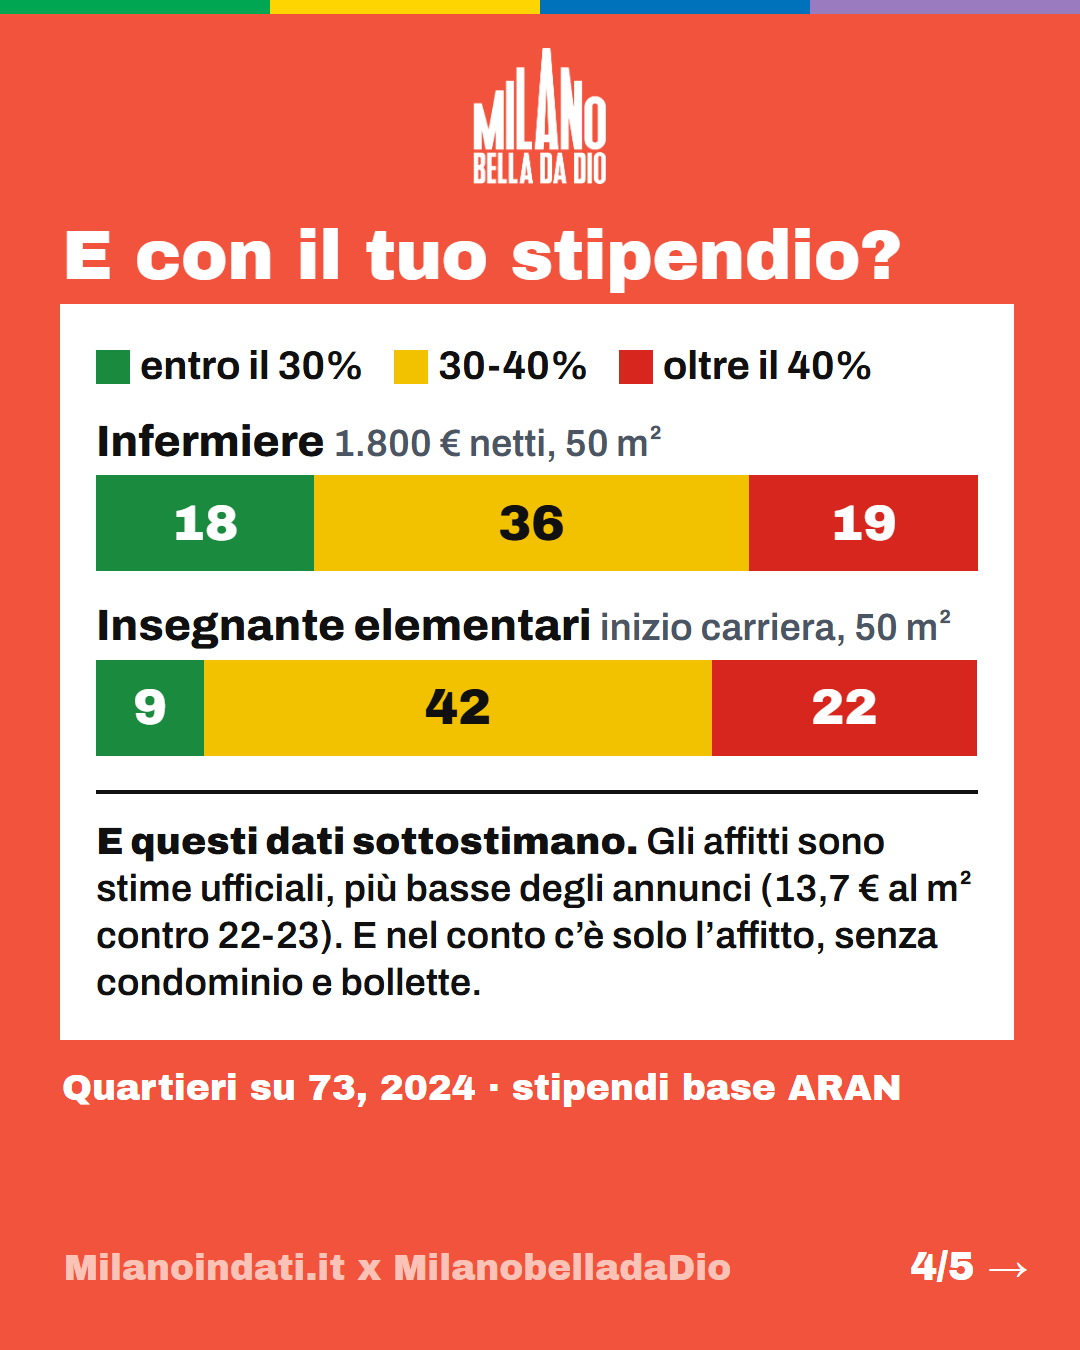
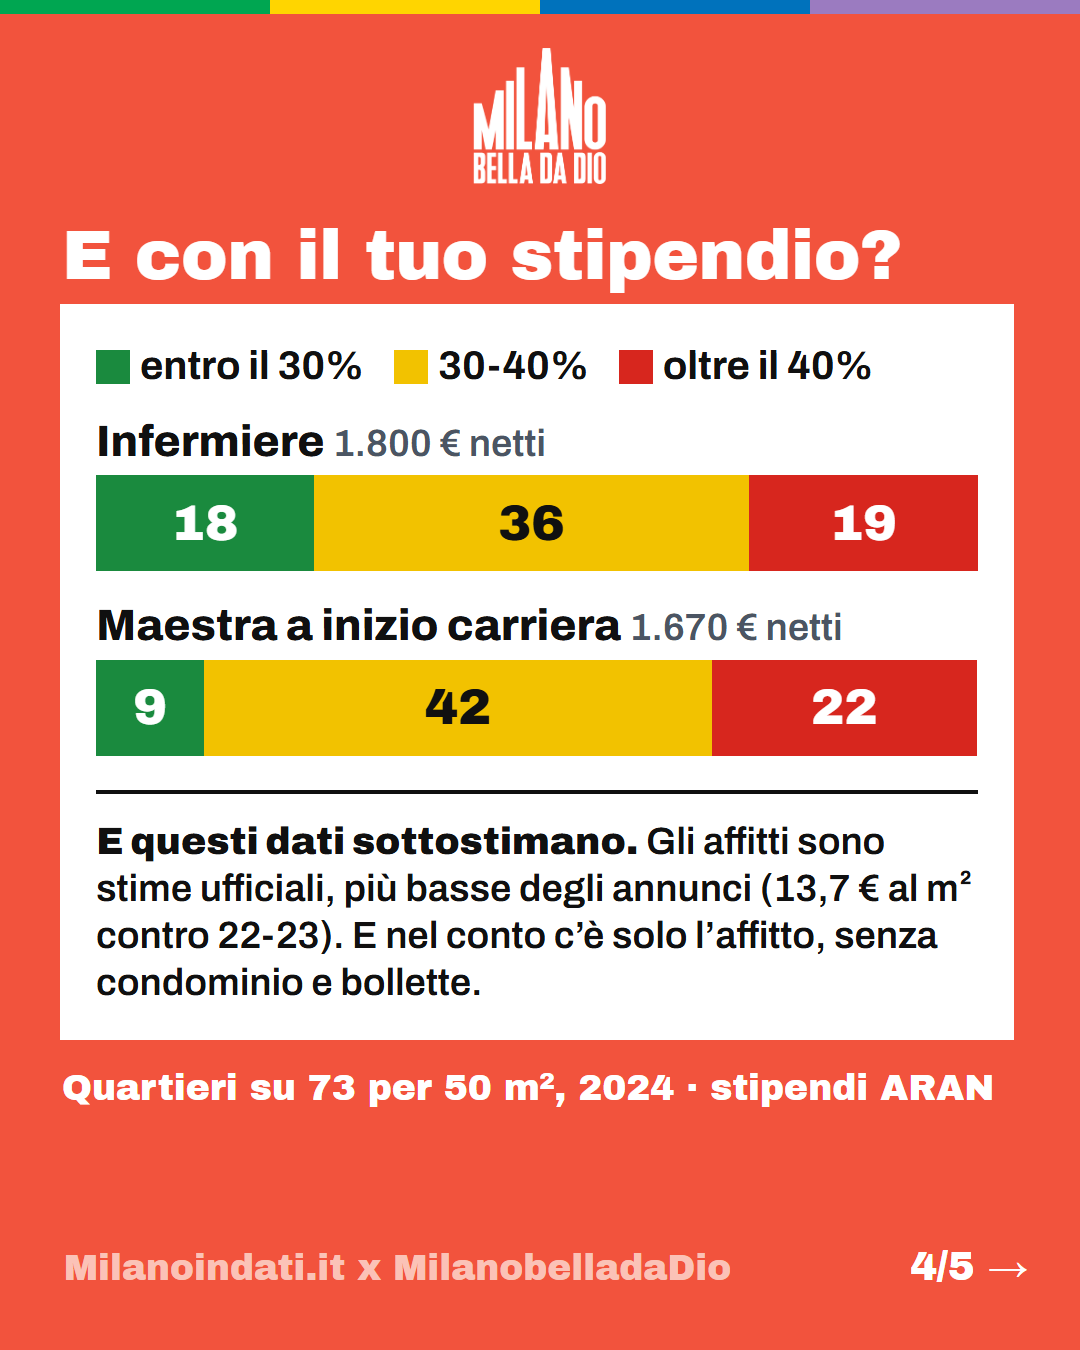
Post casa: 1.750 euro e stipendio della maestra

Changed region(s): [[0.0917, 0.4356, 0.8861, 0.4978], [0.3361, 0.7778, 0.9167, 0.84], [0.5194, 0.3111, 0.6111, 0.3422]]

diff --git a/casa/index.html b/casa/index.html
@@ -1,9 +1,9 @@
 <!doctype html><html lang="it"><head><meta charset="utf-8"><meta name="viewport" content="width=device-width,initial-scale=1"><meta name="robots" content="noindex,nofollow"><title>Post casa · anteprima</title>
 <style>body{margin:0;background:#101010;color:#fff;font-family:system-ui,Arial,sans-serif}main{max-width:540px;margin:0 auto;padding:16px}h1{font-size:22px;margin:8px 0 4px}p.n{margin:0 0 16px;color:#bbb;font-size:15px}img{display:block;width:100%;height:auto;margin:0 0 14px}h2{font-size:18px;margin:26px 0 8px}pre{white-space:pre-wrap;background:#fff;color:#101010;padding:14px;font:15px/1.45 system-ui,Arial,sans-serif;margin:0}</style></head>
 <body><main><h1>Post casa · Milano in dati × Milano Bella da Dio</h1><p class="n">Anteprima del carosello (5 slide, 1080×1350) e testo del post. Collab: invitare @milanoindati.</p>
-<img src="1.png" alt="Slide 1 di 5" loading="lazy"><img src="2.png" alt="Slide 2 di 5" loading="lazy"><img src="3.png" alt="Slide 3 di 5" loading="lazy"><img src="4.png" alt="Slide 4 di 5" loading="lazy"><img src="5.png" alt="Slide 5 di 5" loading="lazy"><h2>Testo del post</h2><pre>A Milano, con 1.740 € netti al mese, lo stipendio che sta a metà tra i milanesi, una casa da 50 m² costa meno del 30% dello stipendio solo in 9 quartieri su 73. Nel 2015 erano 43. Il crollo è degli ultimi due anni: nel 2021 erano ancora 47.
+<img src="1.png" alt="Slide 1 di 5" loading="lazy"><img src="2.png" alt="Slide 2 di 5" loading="lazy"><img src="3.png" alt="Slide 3 di 5" loading="lazy"><img src="4.png" alt="Slide 4 di 5" loading="lazy"><img src="5.png" alt="Slide 5 di 5" loading="lazy"><h2>Testo del post</h2><pre>A Milano, con 1.750 € netti al mese, lo stipendio che sta a metà tra i milanesi, una casa da 50 m² costa meno del 30% dello stipendio solo in 9 quartieri su 73. Nel 2015 erano 43. Il crollo è degli ultimi due anni: nel 2021 erano ancora 47.
 
-Un infermiere ne trova 18, un&#x27;insegnante elementare a inizio carriera 9. E sono numeri ottimisti: gli affitti usati sono le stime dell&#x27;Agenzia delle Entrate, più basse dei prezzi degli annunci, e non contano condominio e bollette.
+Un infermiere, con 1.800 € netti al mese, ne trova 18. Una maestra a inizio carriera, con 1.670 €, solo 9. E sono numeri ottimisti: gli affitti usati sono le stime dell&#x27;Agenzia delle Entrate, più basse dei prezzi degli annunci, e non contano condominio e bollette.
 
 Quali quartieri puoi permetterti tu? Prova con il tuo stipendio su milanoindati.it/permettersi (link in bio di @milanoindati).
 
